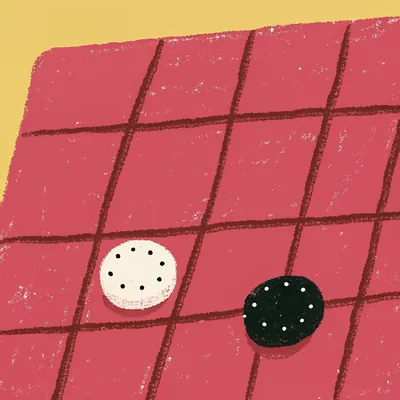
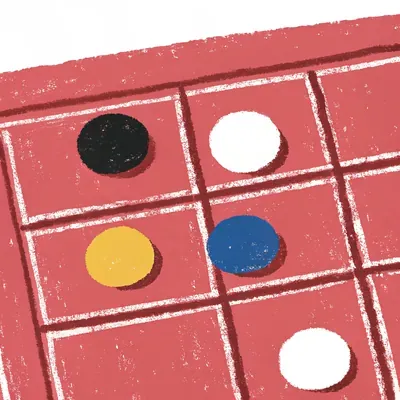
chore(reversi): ツール一覧の絵を4色の石に作りなおす
3〜4人（黒・白・黄・青）の追加に合わせ、カードとはじめの画面の絵を、
黒と白の石から4色の石の絵にした。fal（Recraft V3・手描き風）で8回作り、
4色がそろって石が切れていない1枚を選んだ。描くものの文（prompts.json）と、
作りなおしの記録（docs/development/illustrations.md）も更新。

diff --git a/docs/development/illustrations.md b/docs/development/illustrations.md
@@ -31,6 +31,10 @@
 
 イラストがないカード・読み込めなかったカードは、今までどおりカードのアイコンを白い丸で出す。「よく開かれたツール」の帯も、カードにイラストがあれば同じ絵を出す。
 
+## 作りなおした絵
+
+- `reversi`（リバーシ）: 2026-11-25 に3〜4人（黒・白・黄・青）の追加に合わせて、黒と白の石の絵から4色の石の絵に作りなおした。種類の色（ピンクと赤）を渡すと黄と青が出にくく、黒が紺になる・石が端で切れる・すみに手のような形が出る絵もあったので、8回作り、4色がはじめの並びのように並び、石が切れていない7回目にした。描くものの文は「4色を2つずつ・下の段は空ける」と書いた（`prompts.json`）
+
 ## ツール一覧にカードがないツール
 
 スタッフ向けのツール（ツール一覧に載せない）にも、オーナーの依頼で絵を作ることがある。色は種類の色のかわりに `generate.py` の `STAFF_COLORS` に書く（その画面の地の色に合わせる）。
